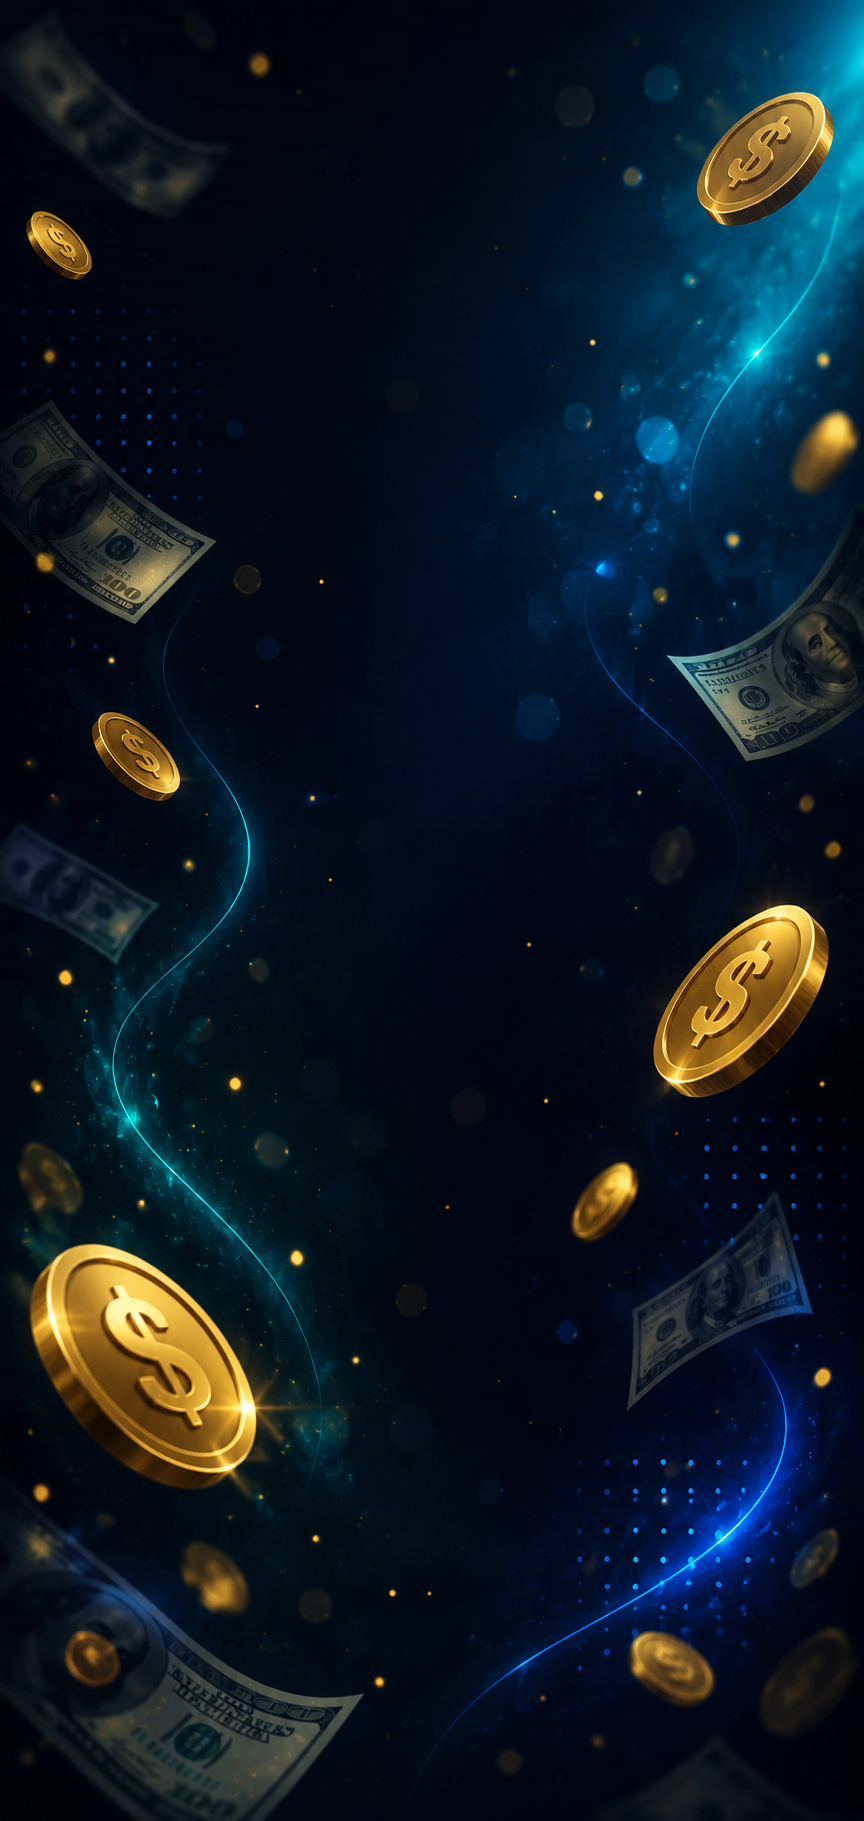
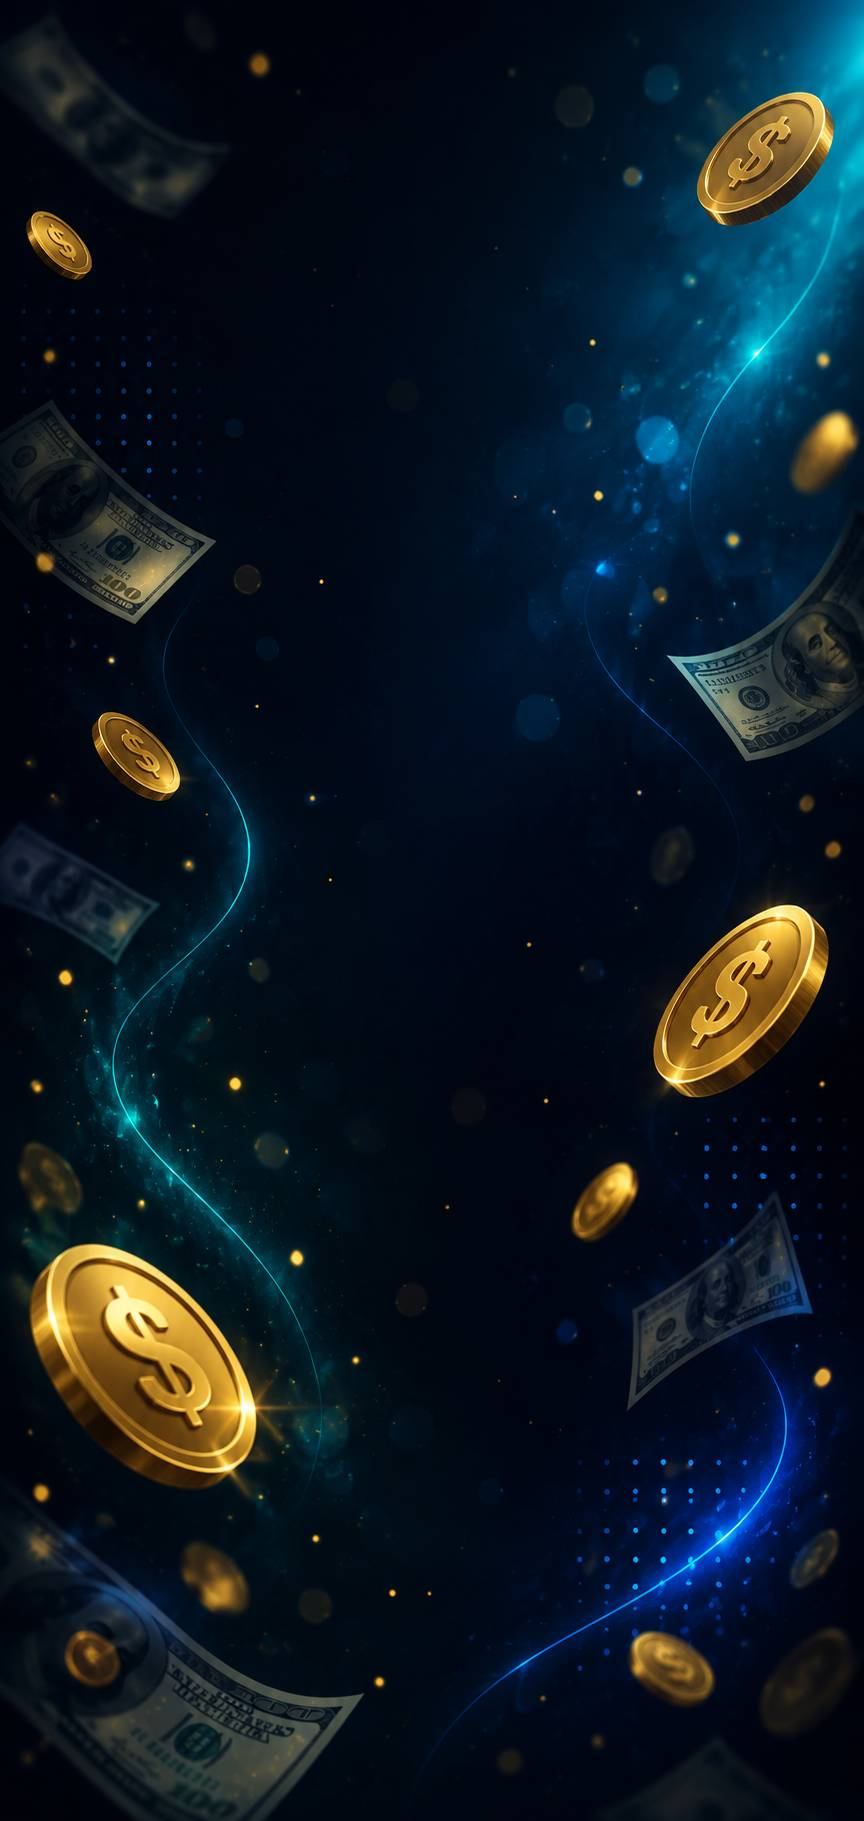
Add files via upload

diff --git a/index.html b/index.html
@@ -13,17 +13,6 @@
     />
   </head>
   <body>
-    <div id="preloader">
-      <div class="vault">
-        <div class="vault-door">
-          <div class="vault-wheel"></div>
-        </div>
-
-        <div class="money">💸 💵 🪙</div>
-      </div>
-
-      <h2 class="loading-text">در حال محاسبه دنگ...</h2>
-    </div>
     <div class="container">
       <div class="card">
         <h1>💰 دنگ حساب</h1>
